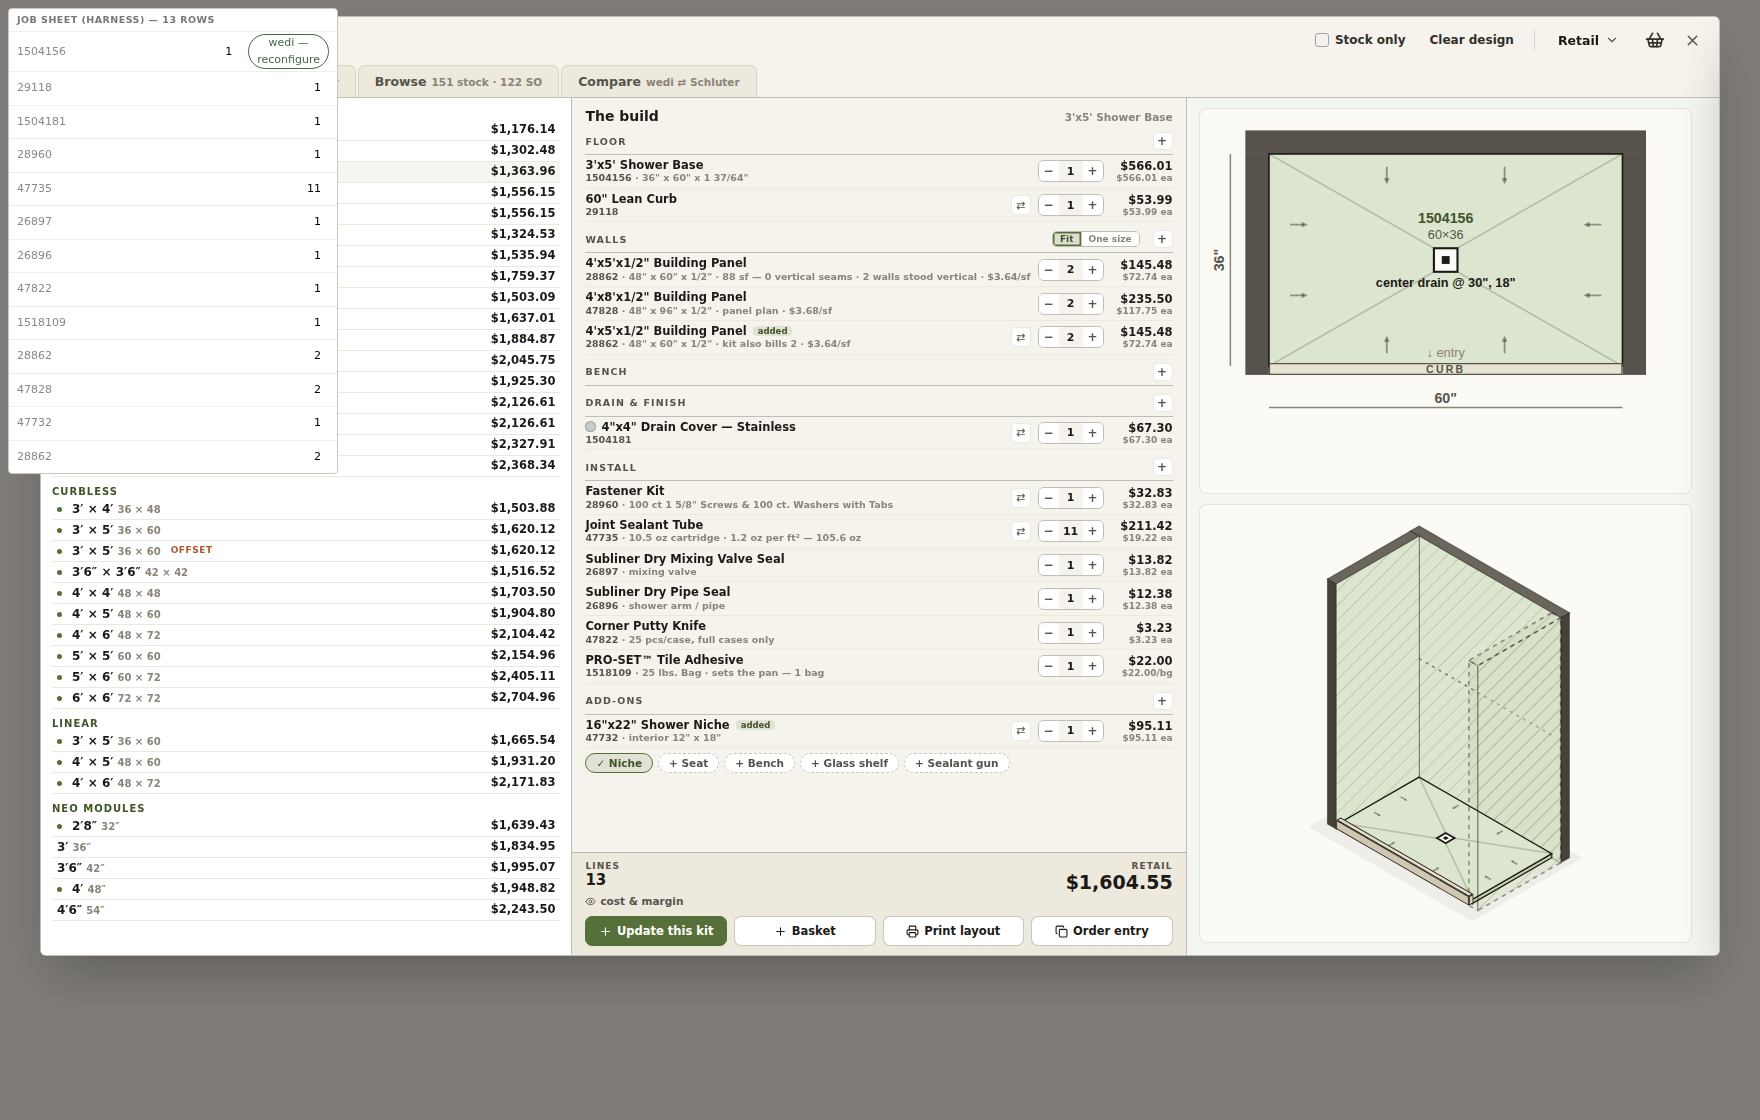
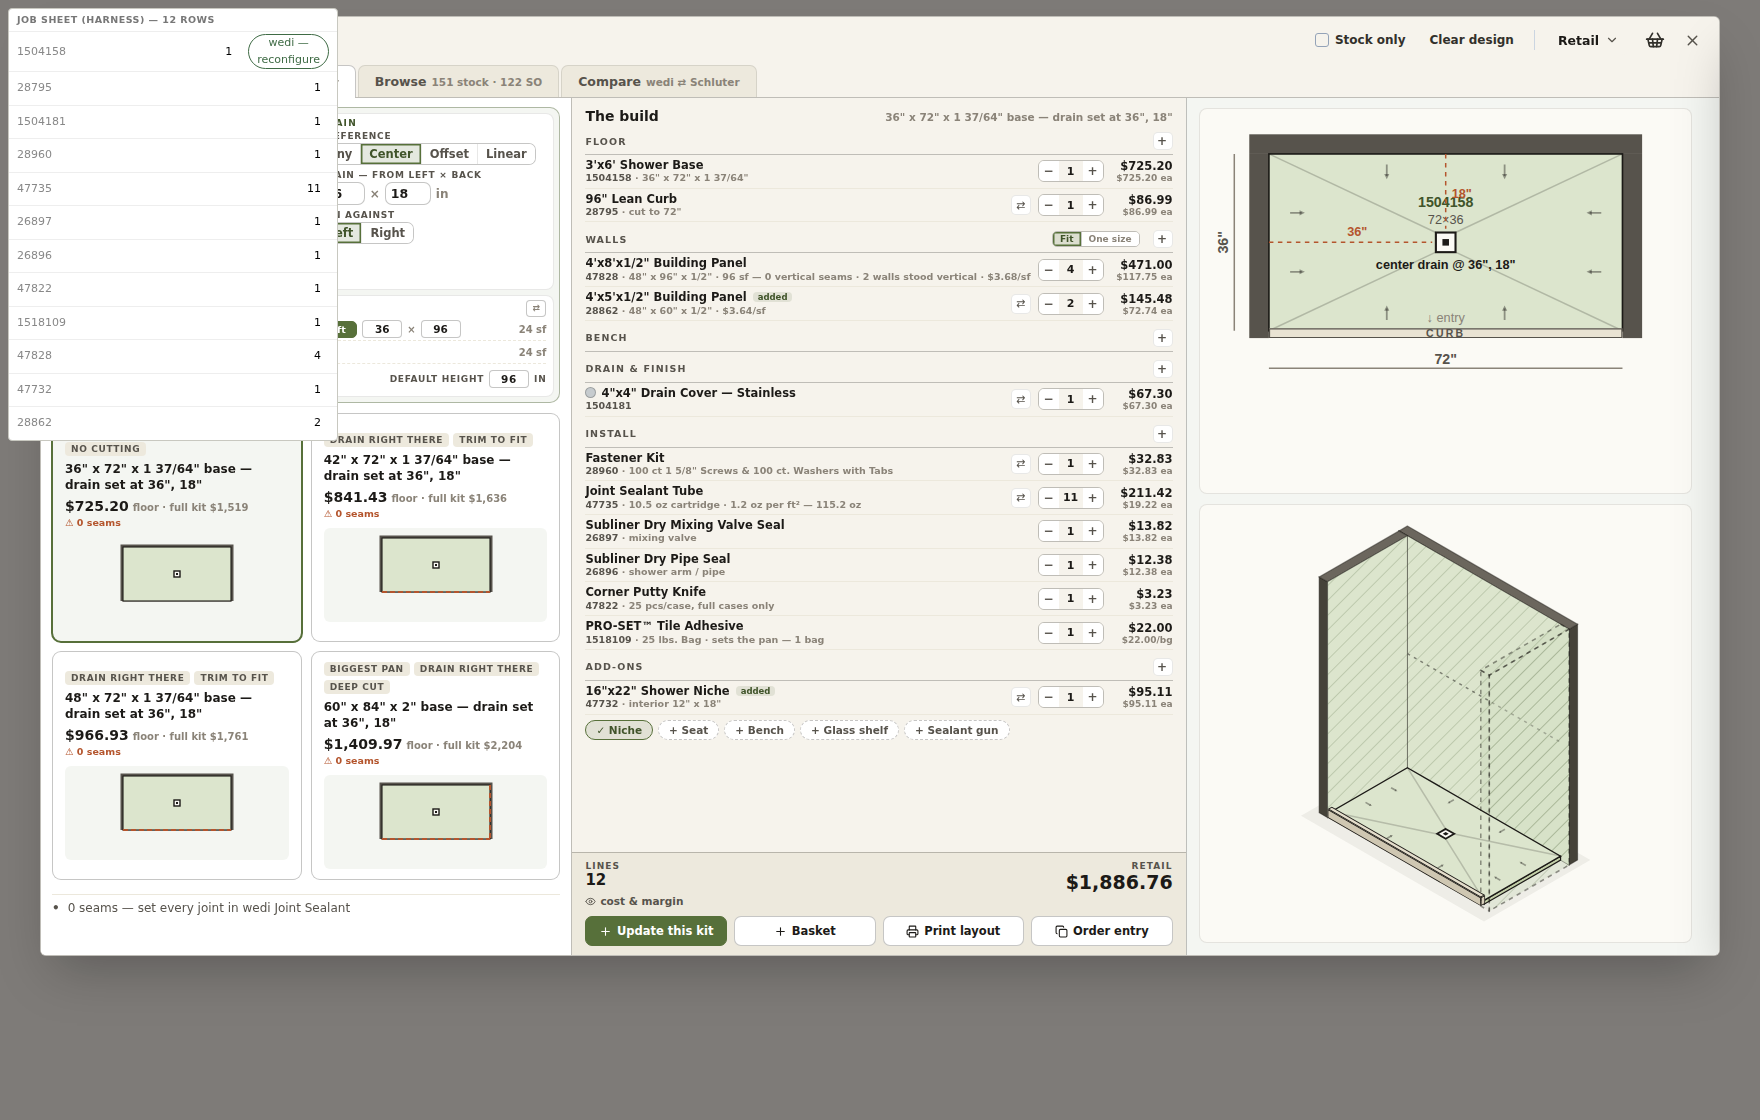
wedi popup: kit steppers never touch added rows; re-solve keeps added lines (1c review)
Claude-Session: https://claude.ai/code/session_01M4YfmgfCh8AvGSdXHDZyVq

diff --git a/src/WediConfigurator.jsx b/src/WediConfigurator.jsx
@@ -903,7 +903,7 @@ function WediConfiguratorBody({ seed, tier, onTierChange, wediBuilderPct, schlut
     if (s.panelFit) lines = applyPanelFit(lines, wl, b.panelSf);
     lines.forEach((l) => {
       const ov = s.qtyOv[l.item.key];
-      if (ov != null && l.auto !== false) { l.autoQty = l.qty; l.qty = ov; l.ov = true; }
+      if (ov != null && !l.added) { l.autoQty = l.qty; l.qty = ov; l.ov = true; }
     });
     // the Fit plan re-appends the kit's panels, so added lines move back to
     // the end — below the kit lines of their bucket
@@ -1013,15 +1013,16 @@ function WediConfiguratorBody({ seed, tier, onTierChange, wediBuilderPct, schlut
   // takes a qtyOv override
   const stepLine = (l, delta) => {
     if (l.added) { addTo(l.group, l.item.key, Math.max(0, l.qty + delta)); return; }
-    if (l.auto === false) return step(l.item.key, delta);
     const key = l.item.key;
     setQtyOv((o) => ({ ...o, [key]: Math.max(0, (o[key] != null ? o[key] : l.qty) + delta) }));
   };
 
   // A re-solved room keeps the cover and curb choices: they name a finish or
-  // a style, not a part, so they re-fit the new room (ADR 0049).
+  // a style, not a part, so they re-fit the new room (ADR 0049). Added lines
+  // stay too — a part and a hand-set qty, never re-fit (Phase 1c).
   const resetBuild = (keepChoices) => {
-    setQtyOv({}); setBenches([]); setBenchMenu(null); setManual([]);
+    setQtyOv({}); setBenches([]); setBenchMenu(null);
+    if (!keepChoices) setManual([]);
     setOpts((o) => ({ ...DEF_OPTS, coverPick: keepChoices ? o.coverPick : undefined, curbPick: keepChoices ? o.curbPick : undefined }));
   };
   // Only a genuinely modified wall survives a room/option change (owner rule):
